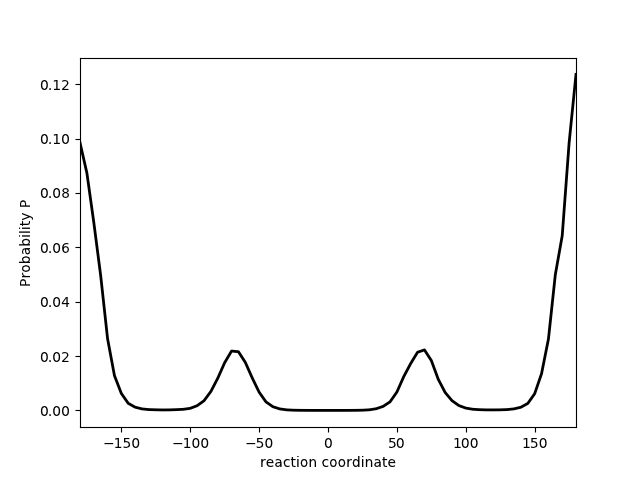
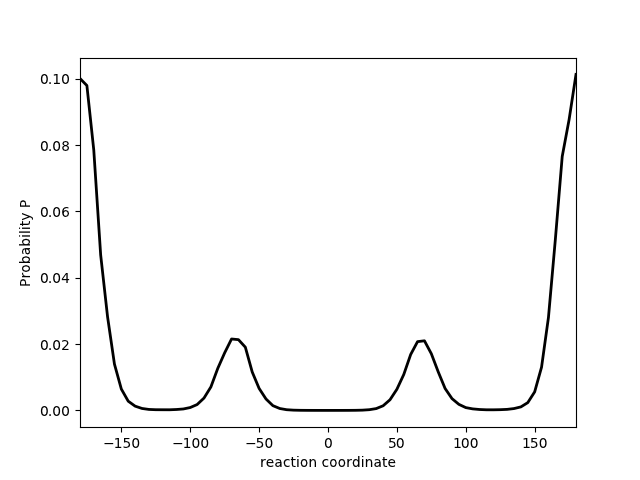
do everything with correct forcefield

diff --git a/manual/Tutorial/LaTeX/Tutorial.tex b/manual/Tutorial/LaTeX/Tutorial.tex
@@ -1233,8 +1233,6 @@ Then we move to the snapshot file and open it with VMD where we can watch the mo
 
 The last file is that called \texttt{umbrella.txt}. It contains the value of the restrained torsion for every step of the sampling simulation. As we saw in the snapshot file all the values are quite near to 150°. This file will later be used by the external program WHAM\myCite{grossfield_wham_nodate} to calculate the PMF.
 
-\colorbox{red}{Everything until here (including picture) done with wrong forcefield}
-\\
 \FloatBarrier
 
 So now we have seen how to perform a single MD simulation for umbrella sampling. What we have to do now is to do the same calculation 73 times where the only thing that has changed is the angle in the option \texttt{UStorsion} in the CAST inputfile. Because it is annoying to do this manually we use a python script for that. Furthermore we do the calculations on a computer cluster where all of them can be run simultanously. The following procedure works on our ECPC cluster. 
@@ -1366,7 +1364,7 @@ After we have run the script we can go into the folder \texttt{analysis} which w
 
 We first have a look into the inputfile: It contains for every single window the name of the \texttt{umbrella\_*.txt} file, the value to which the torsinal angle was restrained and the force constant of the biasing potential.
 
-In the output file we only look at lines 1 to 74. The first column contains the center of the bins we defined by the minimum and maximum value of the torsional angle and the number of bins. The second column contains the Free Energy difference $A(\xi)$. We see that it's highest value is at 0°. This is what we expect because there the two methyl groups are next to each other (eclipsed conformation). This value should be somewhere near $5.76 \frac{kcal}{mol}$\myCite{becker_development_2015}. In my example it is around $6.13 \frac{kcal}{mol}$. Results here can differ a bit because there is always a lot of randomness in MD simulations. The third and the fifth column are bullshit, the fourth line contains the probability. When the Free Energy is high the probability is low and the other way round. Because all other lines start with \texttt{\#} it is quite easy to plot this file with gnuplot: \texttt{plot "out.txt" using 1:2 with lines} shows the Free Energy, \texttt{plot "out.txt" using 1:4 with lines} shows the probability. The results should look something like figure \ref{fig:wham_result}.
+In the output file we only look at lines 1 to 74. The first column contains the center of the bins we defined by the minimum and maximum value of the torsional angle and the number of bins. The second column contains the Free Energy difference $A(\xi)$. We see that it's highest value is at 0°. This is what we expect because there the two methyl groups are next to each other (eclipsed conformation). This value should be somewhere near $5.76 \frac{kcal}{mol}$\myCite{becker_development_2015}. In my example it is $6.02 \frac{kcal}{mol}$. Results here can differ a bit because there is always a lot of randomness in MD simulations. The third and the fifth column are bullshit, the fourth line contains the probability. When the Free Energy is high the probability is low and the other way round. Because all other lines start with \texttt{\#} it is quite easy to plot this file with gnuplot: \texttt{plot "out.txt" using 1:2 with lines} shows the Free Energy, \texttt{plot "out.txt" using 1:4 with lines} shows the probability. The results should look something like figure \ref{fig:wham_result}.
 
 \begin{figure} [htb]
 	\subfigure[Free Energy]{\includegraphics[width=0.49\textwidth]{Img/umbrella_FreeEnergy.png}}
@@ -1388,7 +1386,7 @@ Now we plot the output file again with gnuplot. The results are shown in figure 
 
 As you see the energy here goes up a little at the edges so the minimum energy point is not at a torsional angle of 180° as it should. So in this case the periodic conditions don't seem to be perfect.
 
-What is the reason for that? When switching on periodicity the only thing that changes in the WHAM code is that the minimal image convention is applied. This means that for example the distance from a bin centered at 175° to a bin that is centered at -175° is 10°, not 350° as it would be without periodicity (see WHAM manual). However we have one bin centered at 0° and one bin centered at 360° which are on the same place as far as the minimum image convention is concerned. It seems that WHAM can't correctly handle this. If I remove the last simulation and the last bin from the analysis (so I have to change \texttt{STEPS} to \texttt{range(-180, 180, 5)}, \texttt{MAX} to \texttt{177.5} and \texttt{BINS} to 72) the value for -180° is still higher than for -175° but only slightly (by $0.012 \frac{kcal}{mol}$). You can see the improvement of the curves if you compare figure \ref{fig:wham_180} to \mbox{figure \ref{fig:wham_result_period}}.
+What is the reason for that? When switching on periodicity the only thing that changes in the WHAM code is that the minimal image convention is applied. This means that for example the distance from a bin centered at 175° to a bin that is centered at -175° is 10°, not 350° as it would be without periodicity (see WHAM manual). However we have one bin centered at 0° and one bin centered at 360° which are on the same place as far as the minimum image convention is concerned. It seems that WHAM can't correctly handle this. If I remove the last simulation and the last bin from the analysis (so I have to change \texttt{STEPS} to \texttt{range(-180, 180, 5)}, \texttt{MAX} to \texttt{177.5} and \texttt{BINS} to 72) the value for -180° is still higher than for -175° but less than before (by $0.07 \frac{kcal}{mol}$). You can see the improvement of the curves if you compare figure \ref{fig:wham_180} to \mbox{figure \ref{fig:wham_result_period}}.
 
 \begin{figure} [htb]
 	\subfigure[Free Energy]{\includegraphics[width=0.49\textwidth]{Img/free_180.png}}
@@ -1413,7 +1411,7 @@ import matplotlib.pyplot as plt
 with open("out.txt") as outfile:
     lines = outfile.readlines()
 
-# get values for reaction coordinae, free energy and probability
+# get values for reaction coordinate, free energy and probability
 xi = []  # reaction coordinate
 A = []   # free energy
 P = []   # probability
@@ -1487,8 +1485,6 @@ You see that for every trajectory the distribution is kind of a gaussian distrib
 \FloatBarrier
 
 \textbf{2D Umbrella Sampling}
-
-\colorbox{red}{DONE WITH WRONG FORCEFIELD}
 
 Often during a reaction more than one distance or dihedral angle change, so the Free Energy depends on more than one reaction coordinate. If taking into account 2 reaction coordinates you get something similar as a PES (just that it describes not only the potential energy but also entropic contributions). This two-dimensional case can also be treated by Umbrella Sampling in combination with WHAM.
 

diff --git a/optional_files/scripts/umbrella_stuff/umbrella_plot.py b/optional_files/scripts/umbrella_stuff/umbrella_plot.py
@@ -10,7 +10,7 @@ import matplotlib.pyplot as plt
 with open("out.txt") as outfile:
     lines = outfile.readlines()
 
-# get values for reaction coordinae, free energy and probability
+# get values for reaction coordinate, free energy and probability
 xi = []  # reaction coordinate
 A = []   # free energy
 P = []   # probability
